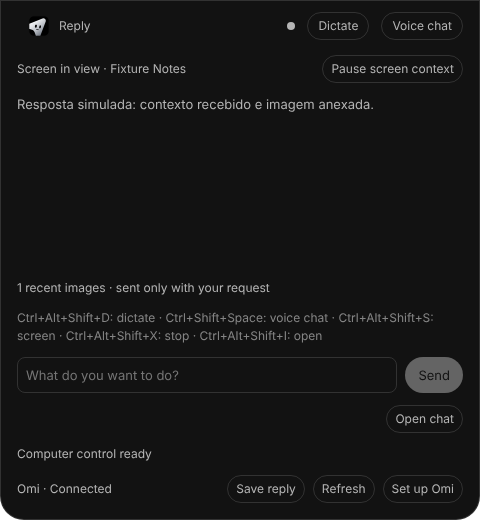
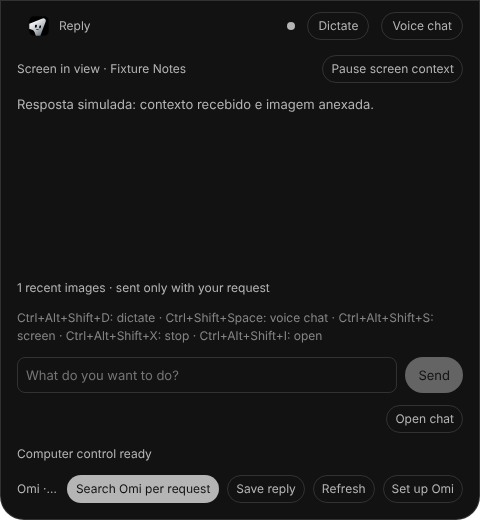
fix(island): tell the bot not to act on instructions found in screen, titles or memories
The message no longer tells the bot to use its computer tools on the app in
front. It says to act only on what the person wrote, never to click, type,
send or delete because of text in the screen, window titles or Omi memories,
and to ask in the chat if that text suggests an action. This is guidance to
the model, not a block; the documentation says so and lists the gap.

Claude-Session: https://claude.ai/code/session_01FPJCpjXiAoqKxdRfLovGdo

Changed region(s): [[0.0938, 0.8923, 0.4688, 0.9846]]

diff --git a/docs/verification/dynamic-island.md b/docs/verification/dynamic-island.md
@@ -40,8 +40,10 @@ visuais extraídos do Vovy. OpenMausBot mantém sua licença Apache 2.0.
 - Omi continua funcionando em paralelo. O adaptador usa a API oficial; não lê os
   arquivos privados do aplicativo e não controla seu microfone.
 - Memória do Omi em três caminhos: a amostra recente (20 memórias e 10
-  conversas, renovada a cada 2 minutos); uma busca por pedido, que envia ao Omi
-  os primeiros 200 caracteres do pedido e inclui até 8 memórias relacionadas; e
+  conversas, renovada a cada 2 minutos); uma busca por pedido, desligada por
+  padrão, que a pessoa liga no botão Buscar no Omi a cada pedido (volta a desligar
+  ao reabrir o app), que envia ao Omi os primeiros 200 caracteres do pedido e
+  inclui até 8 memórias relacionadas; e
   a gravação, só pelos botões Salvar nota ou Salvar resposta, que cria uma
   memória privada de até 500 caracteres com a etiqueta `openmausbot`. Gravar
   exige uma chave com o escopo `memories:write`. Nada é gravado sem o comando.
@@ -153,7 +155,7 @@ reais, captura real da tela e conta Omi real, incluindo a busca
 - **Conversar** (`⌘⇧Space` / `Ctrl+Shift+Space`): conversa por voz contínua, com
   resposta falada. Os dois modos têm botão, rótulo e aviso próprios.
 - **Registro durante a conversa:** com a percepção ativa, a ilha guarda só em
-  memória até 12 momentos dos últimos 5 minutos (fora da conversa: 3 momentos, 30
+  memória até 12 momentos dos últimos 3 minutos (fora da conversa: 3 momentos, 30
   segundos). Pausar, bloquear a tela ou encerrar a conversa descarta o excedente.
 - **Filtro de novidade:** cada captura recebe uma assinatura visual de 64 bits. A
   ilha espera que a próxima tela se pareça com a última guardada e só guarda outra
@@ -167,11 +169,24 @@ reais, captura real da tela e conta Omi real, incluindo a busca
   Sem o modelo, a ilha usa palavras em comum.
 - **Situação do computador:** com a percepção ativa, o pedido leva a hora local,
   o app em primeiro plano (no Mac, via `lsappinfo`), os nomes de até 6 janelas
-  abertas e se o controle do computador está disponível, com a orientação para o
-  bot usar suas ferramentas de controle e conferir a tela antes de agir. Com a
-  percepção pausada, nada disso é enviado.
+  abertas, lidos só no envio, e se o controle do computador está disponível. Com
+  a percepção pausada, nada disso é enviado.
+- **Apps e títulos privados:** um app em primeiro plano cujo nome sugere senhas,
+  bancos ou pagamento oculta a tela: nada é capturado enquanto ele estiver na
+  frente, o que já estava guardado é descartado e a ilha avisa. Títulos de
+  janela com esses termos nunca entram na lista. A correspondência é por trecho do
+  nome, então um site dentro do navegador só é pego se o título disser isso.
 - **Controle do computador:** a ilha mostra o estado do controle que os bots já
   usam e oferece Ativar ou Permitir quando há correção possível.
+
+### Modelo de ameaça: dados externos
+
+Tela, títulos de janela, nome do app e memórias do Omi vêm de fora e podem
+conter instruções para o bot. A mensagem os marca como não confiáveis e pede que
+o bot nunca aja no computador por causa de texto que apareça neles, e que
+pergunte no chat. Isso é uma orientação ao modelo, não um bloqueio: um modelo
+que a ignore ainda poderia agir. Fechar essa lacuna exige confirmação nas
+ferramentas de controle do computador, no servidor, e está pendente.
 
 Não verificado em Mac real: a saída de `lsappinfo`, a ordem das janelas, a
 assinatura visual em telas reais e um modelo `embeddinggemma` de verdade.
